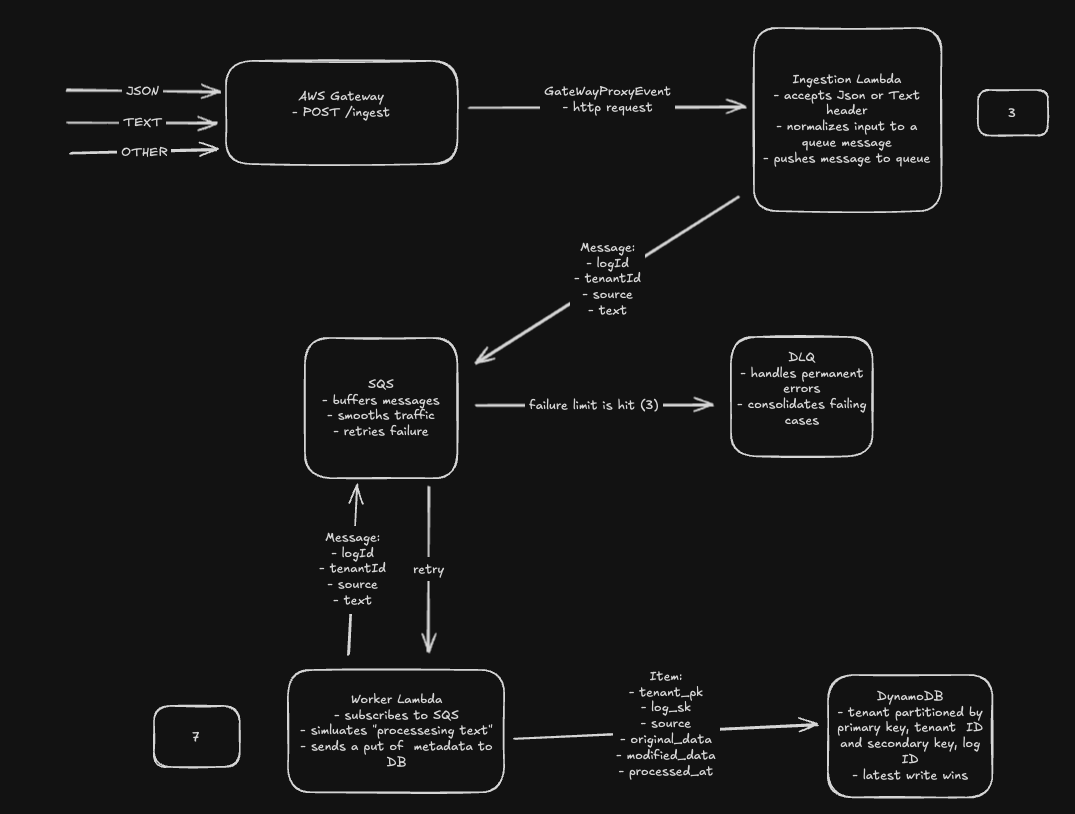
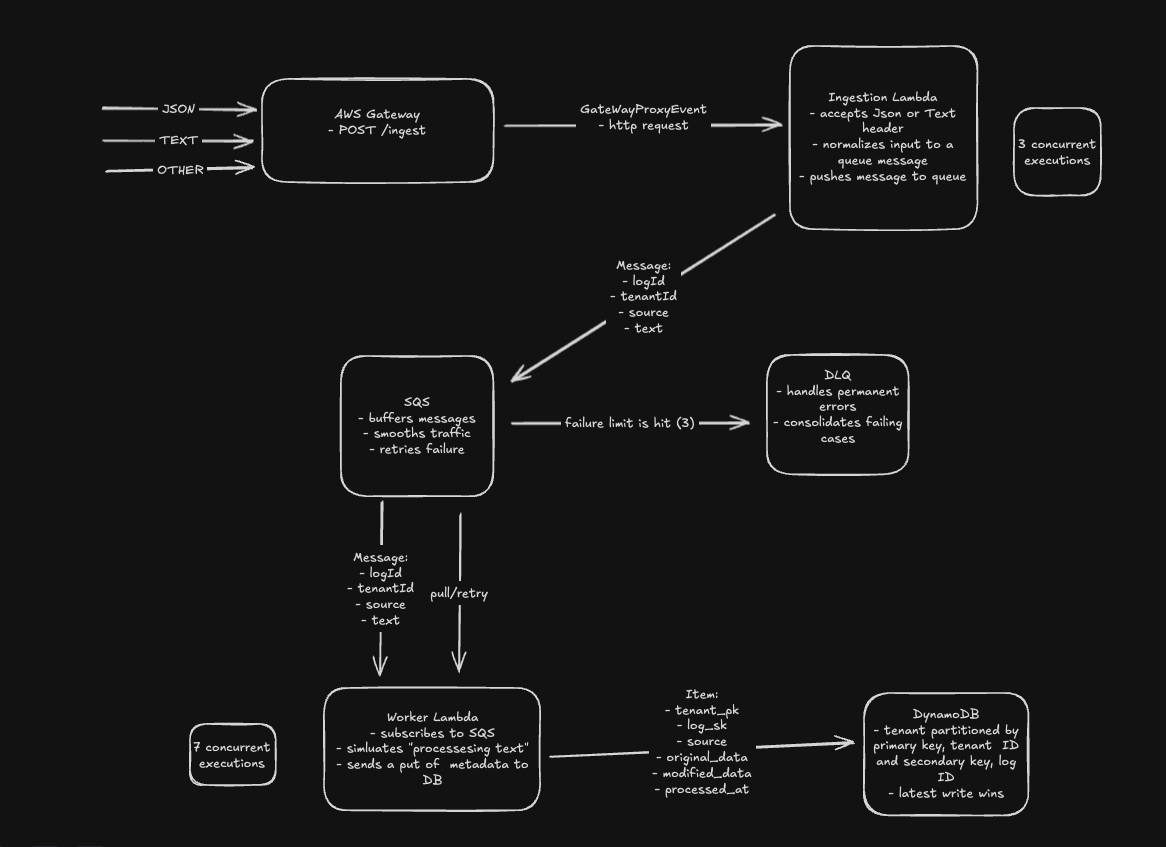
final final

diff --git a/README.md b/README.md
@@ -83,7 +83,6 @@ Client (JSON or TXT) → API Gateway → Ingest Lambda (Component A) → SQS (Me
 API Gateway exposes POST /ingest as a public HTTP endpoint. API Gateway invokes the Ingest Lambda. The Ingest Lambda validates and normalizes the incoming request, constructs a small message object containing tenant identity, a log identifier, the source type (json or text\_upload), and the log text in a uniform field, then sends this message to an SQS queue and returns HTTP 202 Accepted. The Worker Lambda is subscribed to the SQS queue and receives messages in batches. For each message, it simulates heavy processing by sleeping for 0.05 seconds times the number of characters in the text, then computes processed metadata and writes a record to DynamoDB. Only the worker writes to the NoSQL database; the ingestion path never touches storage directly.
 
 Architecture Diagram : ![ArchitectureDiagram](ArchitectureDiagram.png)
-(https://link.excalidraw.com/readonly/hHybmTEjVqqpek7k5tki)
 ---
 
 3. Component A – Unified ingestion endpoint (POST /ingest)
@@ -122,19 +121,20 @@ The key property is that this endpoint is non-blocking. It does not perform heav
 
 The worker is implemented as a separate Lambda function that is triggered by messages in the SQS queue. AWS Lambda's SQS event source mapping delivers batches of messages to the function.
 
-**Worker concurrency is intentionally constrained:** The system is configured with `maximum_concurrency = 7` for the worker Lambda (terraform/main.tf:221). With an AWS account limit of 10 concurrent Lambda executions, this leaves ~3 executions for the ingest Lambda.
+**Concurrency constraints:** AWS account limit of 10 concurrent Lambda executions (unintentional). System configured with `maximum_concurrency = 7` for worker Lambda, leaving ~3 for ingest (intentional allocation).
 
-**This creates intentional queue backlog under load:**
+**Unintentional queue backlog under load:**
 - Worker throughput: 7 workers ÷ 2.5s avg processing time = **2.8 messages/second**
 - Ingestion capacity: ~**16.7 messages/second** (1000 RPM)
 - **Queue backlog growth: ~14 messages/second during load tests**
 
-This is intentional and demonstrates real-world behavior under resource constraints. If the system runs continuously at 1000 RPM, the SQS queue will grow indefinitely. In production, you would either:
-1. Increase worker concurrency to match ingestion rate
-2. Accept queue backlog during traffic spikes, draining during low-traffic periods
-3. Scale worker concurrency dynamically based on queue depth
+The massive queue backlog is an unintentional consequence of the account limit. In production, you would either:
+1. Request AWS account limit increase
+2. Increase worker concurrency to match ingestion rate
+3. Accept queue backlog during traffic spikes, draining during low-traffic periods
+4. Scale worker concurrency dynamically based on queue depth
 
-For testing, this constraint validates that the system handles queue backlog gracefully and that idempotent writes prevent data corruption during retries.
+The constraint does validate that the system handles queue backlog gracefully and that idempotent writes prevent data corruption during retries.
 
 For each SQS message, the handler parses the JSON body back into the internal message structure, recovering tenantId, logId, source, and text. The text field is the normalized flat text produced by the ingestion step.
 

diff --git a/CLAUDE.md b/CLAUDE.md
@@ -64,19 +64,20 @@ The key property is that this endpoint is non-blocking. It does not perform heav
 
 The worker is implemented as a separate Lambda function that is triggered by messages in the SQS queue. AWS Lambda's SQS event source mapping delivers batches of messages to the function.
 
-**Worker concurrency is intentionally constrained:** The system is configured with `maximum_concurrency = 7` for the worker Lambda (terraform/main.tf). With an AWS account limit of 10 concurrent Lambda executions, this leaves ~3 executions for the ingest Lambda.
+**Concurrency constraints:** AWS account limit of 10 concurrent Lambda executions (unintentional). System configured with `maximum_concurrency = 7` for the worker Lambda (terraform/main.tf), leaving ~3 executions for the ingest Lambda (intentional allocation).
 
-**This creates intentional queue backlog under load:**
+**Unintentional queue backlog under load:**
 - Worker throughput: 7 workers ÷ 2.5s avg processing time = **2.8 messages/second**
 - Ingestion capacity: ~**16.7 messages/second** (1000 RPM)
 - **Queue backlog growth: ~14 messages/second during load tests**
 
-This is intentional and demonstrates real-world behavior under resource constraints. If the system runs continuously at 1000 RPM, the SQS queue will grow indefinitely. In production, you would either:
-1. Increase worker concurrency to match ingestion rate
-2. Accept queue backlog during traffic spikes, draining during low-traffic periods
-3. Scale worker concurrency dynamically based on queue depth
+The massive queue backlog is an unintentional consequence of the account limit. If the system runs continuously at 1000 RPM, the SQS queue will grow indefinitely. In production, you would either:
+1. Request AWS account limit increase
+2. Increase worker concurrency to match ingestion rate
+3. Accept queue backlog during traffic spikes, draining during low-traffic periods
+4. Scale worker concurrency dynamically based on queue depth
 
-For testing, this constraint validates that the system handles queue backlog gracefully and that idempotent writes prevent data corruption during retries.
+For testing, this constraint does validate that the system handles queue backlog gracefully and that idempotent writes prevent data corruption during retries.
 
 For each SQS message, the handler parses the JSON body back into the internal message structure, recovering tenantId, logId, source, and text. The text field is the normalized flat text produced by the ingestion step.
 
